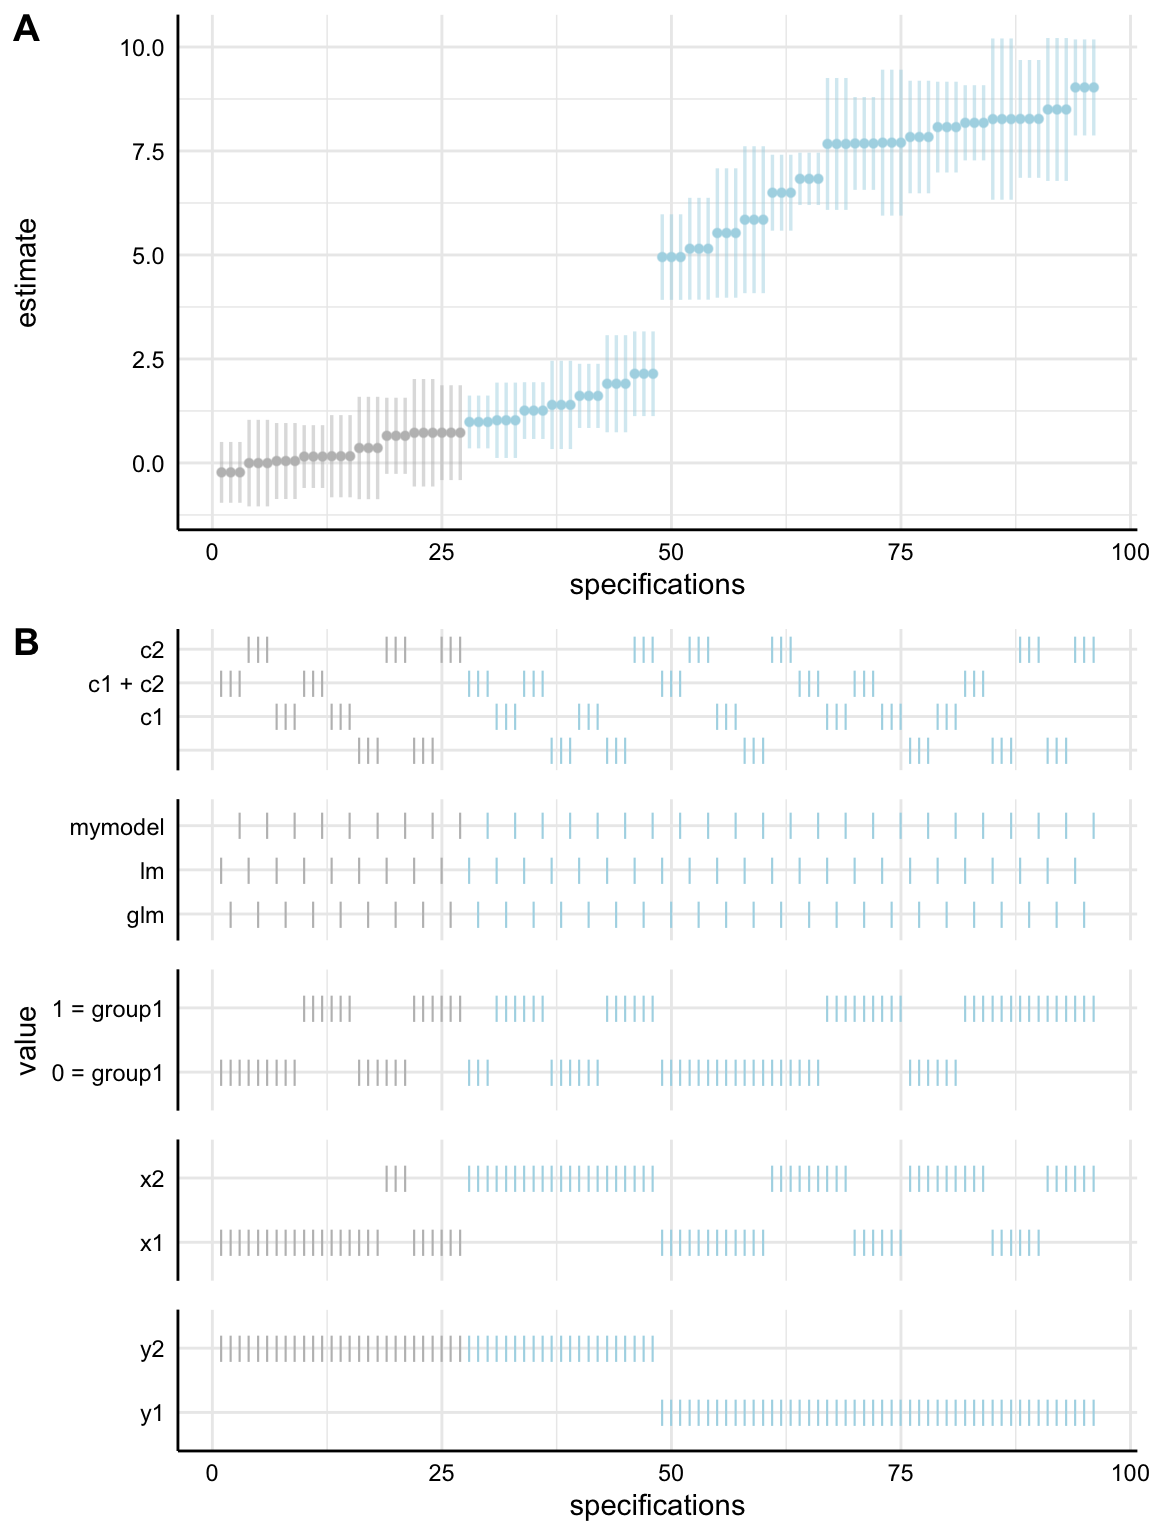
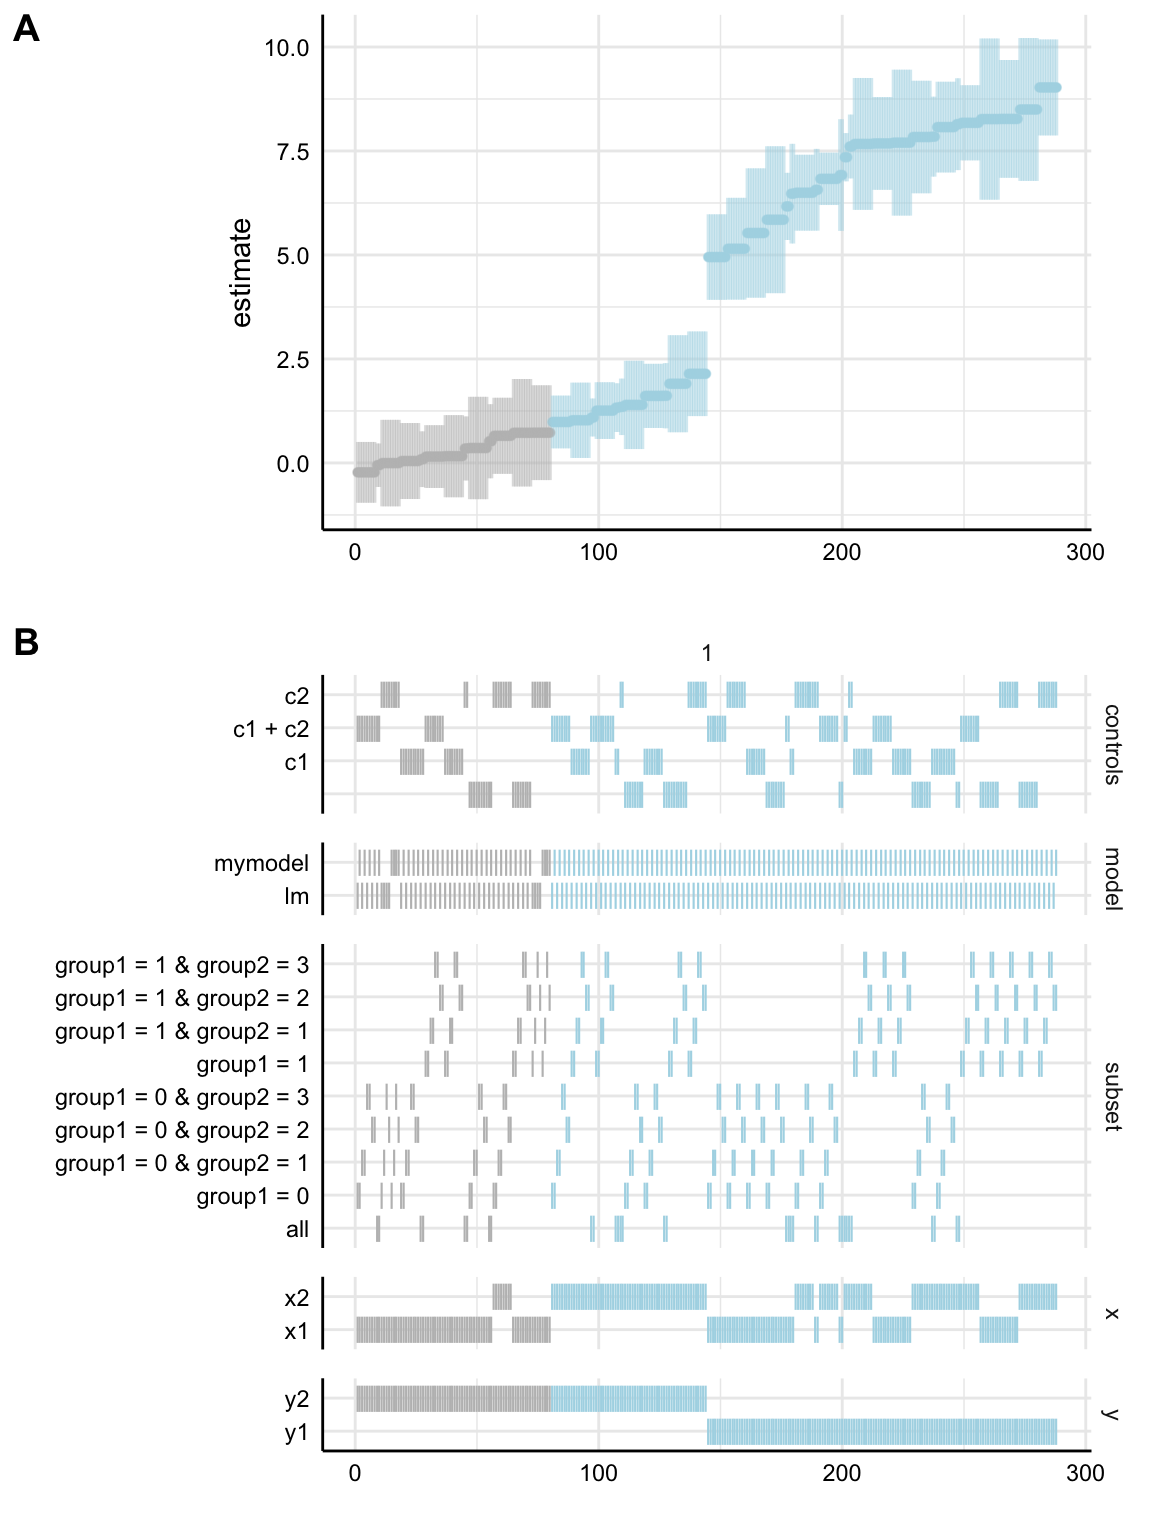
Update README.

diff --git a/README.md b/README.md
@@ -64,20 +64,26 @@ mymodel <- function(formula, data) {
 results <- run_specs(df = example_data, 
                      y = c("y1", "y2"), 
                      x = c("x1", "x2"), 
-                     model = c("lm", "glm", "mymodel"), 
+                     model = c("lm", "mymodel"), 
                      controls = c("c1", "c2"), 
-                     subset = list(group1 = unique(example_data$group1)))
+                     subset = list(group1 = unique(example_data$group1),
+                                   group2 = unique(example_data$group2)))
 # Check results
-head(results)
-#> # A tibble: 6 x 9
-#>   x     y     model controls estimate std.error statistic  p.value subset  
-#>   <chr> <chr> <chr> <chr>       <dbl>     <dbl>     <dbl>    <dbl> <chr>   
-#> 1 x1    y1    lm    c1 + c2     4.95      0.525     9.43  3.11e-18 0 = gro…
-#> 2 x2    y1    lm    c1 + c2     6.83      0.321    21.3   1.20e-57 0 = gro…
-#> 3 x1    y2    lm    c1 + c2    -0.227     0.373    -0.607 5.44e- 1 0 = gro…
-#> 4 x2    y2    lm    c1 + c2     0.985     0.324     3.04  2.62e- 3 0 = gro…
-#> 5 x1    y1    glm   c1 + c2     4.95      0.525     9.43  3.11e-18 0 = gro…
-#> 6 x2    y1    glm   c1 + c2     6.83      0.321    21.3   1.20e-57 0 = gro…
+results
+#> # A tibble: 288 x 9
+#>    x     y     model  controls estimate std.error statistic  p.value subset
+#>    <chr> <chr> <chr>  <chr>       <dbl>     <dbl>     <dbl>    <dbl> <chr> 
+#>  1 x1    y1    lm     c1 + c2     4.95      0.525     9.43  3.11e-18 group…
+#>  2 x2    y1    lm     c1 + c2     6.83      0.321    21.3   1.20e-57 group…
+#>  3 x1    y2    lm     c1 + c2    -0.227     0.373    -0.607 5.44e- 1 group…
+#>  4 x2    y2    lm     c1 + c2     0.985     0.324     3.04  2.62e- 3 group…
+#>  5 x1    y1    mymod… c1 + c2     4.95      0.525     9.43  3.11e-18 group…
+#>  6 x2    y1    mymod… c1 + c2     6.83      0.321    21.3   1.20e-57 group…
+#>  7 x1    y2    mymod… c1 + c2    -0.227     0.373    -0.607 5.44e- 1 group…
+#>  8 x2    y2    mymod… c1 + c2     0.985     0.324     3.04  2.62e- 3 group…
+#>  9 x1    y1    lm     c1          5.53      0.794     6.97  2.95e-11 group…
+#> 10 x2    y1    lm     c1          8.07      0.557    14.5   6.90e-35 group…
+#> # … with 278 more rows
 ```
 
 In a final step, we can use the function `plot_specs()` to produce a
@@ -102,12 +108,12 @@ variance_specs(results)
 #> # A tibble: 6 x 4
 #>   grp         vcov     icc percent
 #>   <chr>      <dbl>   <dbl>   <dbl>
-#> 1 controls  0.0526 0.00233   0.233
-#> 2 model     0      0         0    
-#> 3 subset    0.609  0.0270    2.70 
-#> 4 y        20.9    0.927    92.7  
-#> 5 x         0.650  0.0288    2.88 
-#> 6 Residual  0.347  0.0154    1.54
+#> 1 subset    0.303  0.0138    1.38 
+#> 2 controls  0.0634 0.00288   0.288
+#> 3 model     0      0         0    
+#> 4 y        20.7    0.940    94.0  
+#> 5 x         0.651  0.0296    2.96 
+#> 6 Residual  0.301  0.0137    1.37
 
 # Plot decomposition
 plot_variance(results)
